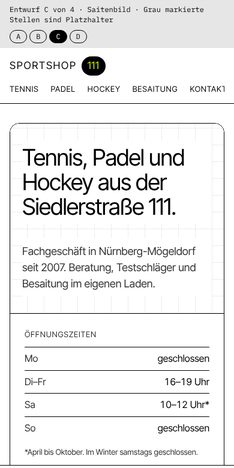
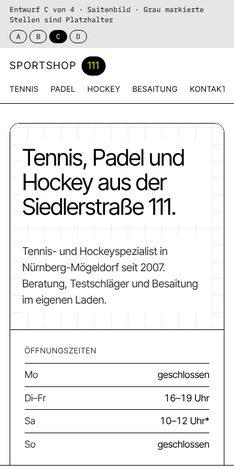
Entwürfe: Korrekturen nach unabhängiger Prüfung
Claude-Session: https://claude.ai/code/session_01KHANbUeJ7eaTpSTaDVxDAu

Changed region(s): [[0.0598, 0.688, 0.9573, 0.9872], [0.0897, 0.5085, 0.8675, 0.6581]]

diff --git a/entwuerfe/d-werkstatt.html b/entwuerfe/d-werkstatt.html
@@ -3,7 +3,6 @@
 <head>
 <meta charset="utf-8">
 <meta name="viewport" content="width=device-width, initial-scale=1, viewport-fit=cover">
-<meta name="claude:viewport-fit-sides" content="cover">
 <meta name="robots" content="noindex">
 <title>Sportshop 111 · Entwurf D</title>
 <link rel="stylesheet" href="basis.css">
@@ -43,7 +42,7 @@
     <div class="innen hero__raster">
       <div class="hero__text">
         <p class="mono">Sportshop 111 · Nürnberg-Mögeldorf</p>
-        <h1 id="hero-titel">Hier wird besaitet. Und beraten.</h1>
+        <h1 id="hero-titel">Hier wird besaitet.</h1>
         <p class="hero__sub">Tennis, Padel und Hockey. Besaitet wird bei uns im Laden auf einer Babolat Sensor Expert Dual.</p>
         <div class="hero__aktionen">
           <a class="pill" href="#besaitung">Zur Besaitung</a>
@@ -51,13 +50,13 @@
         </div>
       </div>
       <figure class="auftrag" aria-label="Beispiel eines Besaitungsauftrags">
-        <figcaption class="auftrag__kopf"><span>Besaitungsauftrag</span><span class="auftrag__nr">Nr. ____</span></figcaption>
+        <figcaption class="auftrag__kopf"><span>Besaitungsauftrag</span><span class="auftrag__nr">Muster</span></figcaption>
         <dl>
-          <div><dt>Schläger</dt><dd class="leer"></dd></div>
+          <div><dt>Schläger</dt><dd class="leer"><span class="vh">frei</span></dd></div>
           <div><dt>Saite</dt><dd>eine von über 60 Sorten oder eure eigene</dd></div>
           <div><dt>Härte</dt><dd class="leer"><span class="einheit">kg</span></dd></div>
           <div><dt>Maschine</dt><dd>Babolat Sensor Expert Dual</dd></div>
-          <div><dt>Abholung</dt><dd class="leer"></dd></div>
+          <div><dt>Abholung</dt><dd class="leer"><span class="vh">frei</span></dd></div>
         </dl>
         <p class="auftrag__fuss">Preis <span class="ph">ab –,– €</span></p>
       </figure>
@@ -78,19 +77,19 @@
       <h2 id="sport-titel" class="titel">Abteilungen</h2>
       <div class="raster3">
         <article class="abteilung">
-          <p class="tag">Tennis</p>
+          <h3 class="tag">Tennis</h3>
           <div class="ph-bild abteilung__bild">Tennis, Querformat</div>
           <p>Schläger von Wilson, Yonex und Babolat. Testschläger kostenlos, Kinderschläger ab 3 Jahren, Turnierbälle für Medenrunde und LK-Turniere auf Anfrage.</p>
         </article>
         <article class="abteilung">
-          <p class="tag">Padel</p>
+          <h3 class="tag">Padel</h3>
           <div class="ph-bild abteilung__bild">Padel, Querformat</div>
           <p>Schläger, Bälle und Griffbänder. Leihschläger im Laden oder rund um die Uhr am Automaten. <a href="https://www.nhtc.de/padel/" rel="noopener noreferrer" target="_blank">Court im NHTC buchen</a></p>
         </article>
         <article class="abteilung">
-          <p class="tag">Hockey</p>
+          <h3 class="tag">Hockey</h3>
           <div class="ph-bild abteilung__bild">Hockey, Querformat</div>
-          <p>Ansprechpartnerinnen sind Susa und Barbara. <span class="ph">Hockey-Sortiment folgt</span></p>
+          <p>Ansprechpartnerinnen sind unsere Hockeyexpertinnen Susa und Barbara. <span class="ph">Hockey-Sortiment folgt</span></p>
         </article>
       </div>
     </div>
@@ -99,7 +98,7 @@
   <section class="abschnitt abschnitt--linie" aria-labelledby="produkte-titel">
     <div class="innen">
       <div class="titelzeile">
-        <h2 id="produkte-titel" class="titel">Auf Lager</h2>
+        <h2 id="produkte-titel" class="titel">Aus dem Sortiment</h2>
         <p class="mono">Beispielmodelle · reservieren per Telefon</p>
       </div>
       <ul class="lager">
@@ -107,19 +106,19 @@
           <div class="ph-bild posten__bild">Foto</div>
           <div class="posten__name"><h3>Babolat Pure Drive</h3><p class="mono">Tennisschläger</p></div>
           <p class="posten__preis"><span class="ph">–,– €</span></p>
-          <a class="pill pill--klein" href="#kontakt">Reservieren</a>
+          <a class="pill pill--klein" href="#kontakt">Im Laden reservieren</a>
         </li>
         <li class="posten">
           <div class="ph-bild posten__bild">Foto</div>
           <div class="posten__name"><h3>Kirschbaum Pro Line II</h3><p class="mono">Tennissaite</p></div>
           <p class="posten__preis"><span class="ph">–,– €</span></p>
-          <a class="pill pill--klein" href="#kontakt">Reservieren</a>
+          <a class="pill pill--klein" href="#kontakt">Im Laden reservieren</a>
         </li>
         <li class="posten">
           <div class="ph-bild posten__bild">Foto</div>
           <div class="posten__name"><h3>Head Tour</h3><p class="mono">Tennisbälle</p></div>
           <p class="posten__preis"><span class="ph">–,– €</span></p>
-          <a class="pill pill--klein" href="#kontakt">Reservieren</a>
+          <a class="pill pill--klein" href="#kontakt">Im Laden reservieren</a>
         </li>
       </ul>
     </div>
@@ -129,10 +128,11 @@
     <div class="innen besaitung__raster">
       <h2 id="besaitung-titel" class="titel">Besaitung</h2>
       <div class="besaitung__text">
-        <p>Spielstärke, Spielart und Alter entscheiden mit, welche Saite und welche Härte passen. Wir bilden uns dazu laufend weiter und kennen die Anforderungen aus Freizeit, Turnier und Profibereich.</p>
+        <p>Spielstärke, Spielart und Alter entscheiden mit, welche Saite passt. Wir bilden uns dazu laufend weiter und kennen die Anforderungen aus Freizeit, Turnier und Profibereich.</p>
         <p>Erfahrung haben wir unter anderem vom WTA-Turnier Nürnberg und aus der Tennis-Bundesliga des 1. FCN. Für Vielbesaiter gibt es Sonderkonditionen, fast alle Saiten besorgen wir auch als Rollenware.</p>
       </div>
       <div class="team">
+        <h3 class="vh">Besaitung im Team</h3>
         <div><h3>Jens</h3><p>Tennis seit 1977, Bayernliga Herren 40, Mitinhaber</p></div>
         <div><h3>Jochen</h3><p>Besaitet seit 1991, Mitinhaber</p></div>
       </div>
@@ -157,6 +157,7 @@
             <tr><th scope="row">So</th><td>geschlossen</td></tr>
           </tbody>
         </table>
+        <p class="hinweis-ph"><span class="ph">Zeiten laut bisheriger Website, vom Laden zu bestätigen</span></p>
         <p class="kontakt__termin">Nach Absprache auch außerhalb: Tennis, Jens <a href="tel:+491775514256">0177 5514256</a> · Hockey, Susa <a href="tel:+491785441545">0178 5441545</a></p>
       </div>
     </div>
@@ -166,7 +167,7 @@
 <footer class="fuss">
   <div class="innen fuss__raster">
     <p class="marke">SPORTSHOP&nbsp;<span class="marke__zahl">111</span></p>
-    <p class="mono">Babolat · Wilson · Yonex · Head · Dunlop · Luxilon · Polystar · Kirschbaum</p>
+    <ul class="mono fuss__marken" aria-label="Marken"><li>Babolat</li><li>Wilson</li><li>Yonex</li><li>Head</li><li>Dunlop</li><li>Luxilon</li><li>Polystar</li><li>Kirschbaum</li></ul>
     <nav aria-label="Rechtliches"><a href="#">Impressum</a> <a href="#">Datenschutz</a></nav>
   </div>
 </footer>

diff --git a/entwuerfe/a-court.html b/entwuerfe/a-court.html
@@ -3,7 +3,6 @@
 <head>
 <meta charset="utf-8">
 <meta name="viewport" content="width=device-width, initial-scale=1, viewport-fit=cover">
-<meta name="claude:viewport-fit-sides" content="cover">
 <meta name="robots" content="noindex">
 <title>Sportshop 111 · Entwurf A</title>
 <link rel="stylesheet" href="basis.css">
@@ -67,7 +66,7 @@
   <section class="abschnitt" id="sortiment" aria-labelledby="sport-titel">
     <div class="innen">
       <header class="kopfzeile">
-        <h2 id="sport-titel">Drei Sportarten, ein Laden</h2>
+        <h2 id="sport-titel">Tennis, Padel und Hockey</h2>
         <p>Seit 2007 beraten wir in der Siedlerstraße zu Schlägern, Saiten, Bällen und Ausrüstung. Testschläger leihen wir kostenlos aus.</p>
       </header>
       <div class="raster3">
@@ -75,8 +74,8 @@
           <div class="ph-bild sportkarte__bild">Tennisschläger an der Wand, Hochformat 3:4</div>
           <div class="sportkarte__text">
             <h3>Tennis</h3>
-            <p>Schläger von Wilson, Yonex und Babolat. Kinderschläger ab 3 Jahren. Kleidung und Schuhe von Babolat und Head.</p>
-            <a class="pfeil" href="#tennis">Tennis ansehen</a>
+            <p>Schläger von Wilson, Yonex und Babolat. Kinderschläger ab 3 Jahren. Kleidung von Babolat, Schuhe von Babolat und Head.</p>
+            <a class="pfeil" href="#kontakt">Beratung anfragen</a>
           </div>
         </article>
         <article class="sportkarte" id="padel">
@@ -84,15 +83,15 @@
           <div class="sportkarte__text">
             <h3>Padel</h3>
             <p>Schläger, Bälle und Griffbänder. Leihschläger gegen eine kleine Gebühr, die vier Courts gehören zum NHTC.</p>
-            <a class="pfeil" href="#padel">Padel ansehen</a>
+            <a class="pfeil" href="#kontakt">Beratung anfragen</a>
           </div>
         </article>
         <article class="sportkarte" id="hockey">
           <div class="ph-bild sportkarte__bild">Hockeyschläger, Hochformat 3:4</div>
           <div class="sportkarte__text">
             <h3>Hockey</h3>
-            <p>Beratung von Susa und Barbara. <span class="ph">Hockey-Sortiment folgt</span></p>
-            <a class="pfeil" href="#hockey">Hockey ansehen</a>
+            <p>Ansprechpartnerinnen sind unsere Hockeyexpertinnen Susa und Barbara. <span class="ph">Hockey-Sortiment folgt</span></p>
+            <a class="pfeil" href="#kontakt">Beratung anfragen</a>
           </div>
         </article>
       </div>
@@ -113,7 +112,7 @@
   <section class="abschnitt" aria-labelledby="produkte-titel">
     <div class="innen">
       <header class="kopfzeile">
-        <h2 id="produkte-titel">Aktuell im Laden</h2>
+        <h2 id="produkte-titel">Aus dem Sortiment</h2>
         <p>Beispielmodelle aus dem Sortiment. Reservieren geht telefonisch, abholen und bezahlen im Shop.</p>
       </header>
       <div class="raster3">
@@ -184,6 +183,7 @@
             <tr><th scope="row">Sonntag</th><td>geschlossen</td></tr>
           </tbody>
         </table>
+        <p class="hinweis-ph"><span class="ph">Zeiten laut bisheriger Website, vom Laden zu bestätigen</span></p>
         <p class="kontakt__termin">Termine außerhalb der Öffnungszeiten nach Absprache: Tennis bei Jens, <a href="tel:+491775514256">0177 5514256</a>. Hockey bei Susa, <a href="tel:+491785441545">0178 5441545</a>.</p>
       </div>
     </div>

diff --git a/entwuerfe/c-saitenbild.html b/entwuerfe/c-saitenbild.html
@@ -3,7 +3,6 @@
 <head>
 <meta charset="utf-8">
 <meta name="viewport" content="width=device-width, initial-scale=1, viewport-fit=cover">
-<meta name="claude:viewport-fit-sides" content="cover">
 <meta name="robots" content="noindex">
 <title>Sportshop 111 · Entwurf C</title>
 <link rel="stylesheet" href="basis.css">
@@ -42,7 +41,7 @@
     <div class="zellen">
       <div class="zelle zelle--titel">
         <h1 id="hero-titel">Tennis, Padel und Hockey aus der Siedlerstraße&nbsp;111.</h1>
-        <p>Fachgeschäft in Nürnberg-Mögeldorf seit 2007. Beratung, Testschläger und Besaitung im eigenen Laden.</p>
+        <p>Tennis- und Hockeyspezialist in Nürnberg-Mögeldorf seit 2007. Beratung, Testschläger und Besaitung im eigenen Laden.</p>
       </div>
       <div class="zelle zelle--zeiten">
         <h2 class="label">Öffnungszeiten</h2>
@@ -53,6 +52,7 @@
           <div><dt>So</dt><dd>geschlossen</dd></div>
         </dl>
         <p class="fussnote">*April bis Oktober. Im Winter samstags geschlossen.</p>
+        <p class="fussnote"><span class="ph">vom Laden zu bestätigen</span></p>
       </div>
       <div class="zelle zelle--automat">
         <span class="quadrat" aria-hidden="true"></span>
@@ -83,7 +83,7 @@
             <li>Schläger von Wilson, Yonex, Babolat</li>
             <li>Testschläger kostenlos</li>
             <li>Kinderschläger ab 3 Jahren</li>
-            <li>Kleidung und Schuhe von Babolat und Head</li>
+            <li>Kleidung von Babolat, Schuhe von Babolat und Head</li>
           </ul>
         </article>
         <article class="spalte">
@@ -99,7 +99,7 @@
           <div class="ph-bild spalte__bild">Hockey, Hochformat 3:4</div>
           <h3>Hockey</h3>
           <ul class="punkte">
-            <li>Beratung von Susa und Barbara</li>
+            <li>Ansprechpartnerinnen: Susa und Barbara, unsere Hockeyexpertinnen</li>
             <li><span class="ph">Sortiment folgt</span></li>
           </ul>
         </article>
@@ -110,7 +110,7 @@
   <section class="abschnitt abschnitt--beton" aria-labelledby="produkte-titel">
     <div class="innen">
       <div class="kopfzeile">
-        <h2 id="produkte-titel">Im Regal</h2>
+        <h2 id="produkte-titel">Aus dem Sortiment</h2>
         <p>Beispielmodelle. Telefonisch reservieren, im Laden abholen und bezahlen.</p>
       </div>
       <div class="produkte">
@@ -126,7 +126,7 @@
         </article>
         <article class="produkt">
           <div class="ph-bild produkt__bild">Produktfoto</div>
-          <div class="produkt__info"><h3>Babolat RPM Blast</h3><p class="ph">–,– €</p></div>
+          <div class="produkt__info"><h3>Babolat Pure Strike</h3><p class="ph">–,– €</p></div>
           <a class="pill pill--voll" href="#kontakt">Im Laden reservieren</a>
         </article>
       </div>

diff --git a/entwuerfe/b-petrol.html b/entwuerfe/b-petrol.html
@@ -3,7 +3,6 @@
 <head>
 <meta charset="utf-8">
 <meta name="viewport" content="width=device-width, initial-scale=1, viewport-fit=cover">
-<meta name="claude:viewport-fit-sides" content="cover">
 <meta name="robots" content="noindex">
 <title>Sportshop 111 · Entwurf B</title>
 <link rel="stylesheet" href="basis.css">
@@ -70,7 +69,7 @@
         <article class="sport">
           <div class="ph-bild sport__bild">Tennis, Querformat 4:3</div>
           <h3>Tennis</h3>
-          <p>Schläger von Wilson, Yonex und Babolat, Kinderschläger ab 3 Jahren, Kleidung und Schuhe von Babolat und Head. Mannschaftspakete auf Anfrage.</p>
+          <p>Schläger von Wilson, Yonex und Babolat, Kinderschläger ab 3 Jahren, Kleidung von Babolat, Schuhe von Babolat und Head. Mannschaftspakete auf Anfrage.</p>
         </article>
         <article class="sport">
           <div class="ph-bild sport__bild">Padel, Querformat 4:3</div>
@@ -80,7 +79,7 @@
         <article class="sport">
           <div class="ph-bild sport__bild">Hockey, Querformat 4:3</div>
           <h3>Hockey</h3>
-          <p>Susa und Barbara beraten euch zur Hockey-Ausrüstung. <span class="ph">Sortiment folgt</span></p>
+          <p>Ansprechpartnerinnen sind unsere Hockeyexpertinnen Susa und Barbara. <span class="ph">Sortiment folgt</span></p>
         </article>
       </div>
     </div>
@@ -166,6 +165,7 @@
           <div><dt>Samstag</dt><dd>10:00–12:00 Uhr (April–Oktober), sonst geschlossen</dd></div>
           <div><dt>Sonntag</dt><dd>geschlossen</dd></div>
         </dl>
+        <p class="hinweis-ph"><span class="ph">Zeiten laut bisheriger Website, vom Laden zu bestätigen</span></p>
         <p class="kontakt__termin">Außerhalb der Zeiten nach Absprache: Tennis, Jens <a href="tel:+491775514256">0177 5514256</a> · Hockey, Susa <a href="tel:+491785441545">0178 5441545</a></p>
       </div>
     </div>

diff --git a/entwuerfe/index.html b/entwuerfe/index.html
@@ -1,6 +1,10 @@
-<title>Sportshop 111 Entwürfe</title>
-<meta name="claude:viewport-fit-sides" content="cover">
+<!doctype html>
+<html lang="de">
+<head>
+<meta charset="utf-8">
+<meta name="viewport" content="width=device-width, initial-scale=1, viewport-fit=cover">
 <meta name="robots" content="noindex">
+<title>Sportshop 111 Entwürfe</title>
 <style>
 /* Übersicht der vier Entwürfe. Bewusst nur helles Thema, passend zum Stil der Website. */
 @font-face { font-family: "Inter Tight"; src: url("fonts/inter-tight-latin-400-normal.woff2") format("woff2"); font-weight: 400; font-display: swap; }
@@ -33,6 +37,8 @@ h2 { font-weight: 400; font-size: 26px; line-height: 1.2; margin: 0; }
 .hinweise ul { margin: 0; padding-left: 18px; }
 @media (max-width: 760px) { .raster { grid-template-columns: 1fr; } .bilder img.mobil { width: 72px; } }
 </style>
+</head>
+<body>
 
 <div class="seite">
   <header class="kopf">
@@ -51,7 +57,7 @@ h2 { font-weight: 400; font-size: 26px; line-height: 1.2; margin: 0; }
     <a class="karte" href="b-petrol.html">
       <div class="bilder"><img src="vorschau/b-petrol.jpg" alt="Entwurf B, Desktop-Ansicht" width="864" height="600"><img class="mobil" src="vorschau/b-petrol-mobil.jpg" alt="Entwurf B, Handy-Ansicht" width="234" height="468"></div>
       <div class="zeile"><h2>Petrol</h2><span class="buchstabe">B</span></div>
-      <p>Die Ladenfarben im neuen System: Petrolblau statt Schwarz, Gelbgrün als Akzent, die orange „111“ aus dem alten Logo bleibt.</p>
+      <p>Die Ladenfarben im neuen System: Petrolblau aus dem alten Logo statt Schwarz, Gelbgrün als einziger Akzent.</p>
       <span class="oeffnen">Entwurf B öffnen</span>
     </a>
     <a class="karte" href="c-saitenbild.html">
@@ -79,3 +85,5 @@ h2 { font-weight: 400; font-size: 26px; line-height: 1.2; margin: 0; }
     </ul>
   </section>
 </div>
+</body>
+</html>

diff --git a/entwuerfe/d-werkstatt.css b/entwuerfe/d-werkstatt.css
@@ -96,7 +96,7 @@ main .abschnitt .pill:hover { background: var(--schwarz); color: var(--akzent); 
 .besaitung__text { display: grid; gap: 16px; font-size: 18px; line-height: 1.55; }
 .team { display: grid; gap: 16px; }
 .team > div { border-top: 1px solid var(--linie); padding-top: 12px; display: grid; gap: 4px; }
-.team h3 { font-size: 22px; }
+.team h3:not(.vh) { font-size: 22px; }
 .team p { color: var(--text2); font-size: 15px; }
 
 /* Kontakt */
@@ -114,6 +114,9 @@ main .abschnitt .pill:hover { background: var(--schwarz); color: var(--akzent); 
 .fuss { background: var(--petrol); color: var(--weiss); }
 .fuss__raster { display: flex; flex-wrap: wrap; gap: 16px 40px; align-items: center; justify-content: space-between; padding-block: 56px; font-size: 13px; }
 .fuss .mono { color: #c4d6dd; }
+.fuss__marken { display: flex; flex-wrap: wrap; gap: 4px 14px; }
+.fuss__marken li + li::before { content: "·"; margin-right: 14px; }
+.abteilung .tag { font-weight: 400; }
 .fuss nav { display: flex; gap: 24px; }
 .fuss a { text-underline-offset: 4px; }
 

diff --git a/entwuerfe/c-saitenbild.css b/entwuerfe/c-saitenbild.css
@@ -87,7 +87,7 @@
 
 .produkte { display: grid; grid-template-columns: repeat(3, minmax(0, 1fr)); gap: 16px; }
 .produkt { background: var(--weiss); border: 1px solid var(--linie); border-radius: var(--radius-flaeche); padding: 16px; display: grid; gap: 14px; }
-.produkt__bild { aspect-ratio: 3 / 4; background: var(--beton) !important; }
+.abschnitt--beton .produkt__bild { aspect-ratio: 3 / 4; background: var(--beton); }
 .produkt__info { display: flex; justify-content: space-between; align-items: baseline; gap: 12px; font-size: 13px; border-top: 1px solid var(--linie); padding-top: 12px; }
 .produkt__info h3 { font-size: 13px; letter-spacing: 0.02em; }
 .produkt .ph { background: var(--beton); }

diff --git a/entwuerfe/b-petrol.css b/entwuerfe/b-petrol.css
@@ -12,7 +12,7 @@
 .kopf { background: var(--dunkel); color: var(--weiss); }
 .kopf__zeile { display: flex; align-items: center; gap: 40px; min-height: 76px; flex-wrap: wrap; }
 .marke { font-size: 18px; letter-spacing: 0.1em; text-decoration: none; white-space: nowrap; color: var(--weiss); }
-.marke__zahl { color: var(--orange); margin-left: 6px; letter-spacing: 0.04em; }
+.marke__zahl { color: var(--akzent); margin-left: 6px; letter-spacing: 0.04em; }
 .hauptnav { display: flex; gap: 24px; margin-left: auto; }
 .hauptnav a { font-size: 13px; letter-spacing: 0.06em; text-transform: uppercase; text-decoration: none; color: var(--weiss); }
 .hauptnav a:hover { color: var(--akzent); }

diff --git a/entwuerfe/a-court.css b/entwuerfe/a-court.css
@@ -99,7 +99,8 @@
   font-size: clamp(48px, 7vw, 72px); line-height: 1; letter-spacing: -0.02em; color: var(--akzent);
 }
 .automat h2 { font-size: 26px; line-height: 1.3; }
-.automat p { color: #cfcfcf; }
+.automat p:not(.automat__zeit) { color: #cfcfcf; }
+.hero :focus-visible, .automat :focus-visible, .fuss :focus-visible { outline-color: var(--akzent); }
 
 /* Produkte */
 .produkt {

diff --git a/entwuerfe/basis.css b/entwuerfe/basis.css
@@ -121,6 +121,9 @@ ul, ol { list-style: none; }
   white-space: nowrap;
 }
 
+.hinweis-ph { margin-top: 12px; font-size: 13px; }
+.hinweis-ph .ph, .fussnote .ph { white-space: normal; }
+
 /* Mobile Aktionsleiste: Anrufen und Route immer erreichbar */
 .mobilbar { display: none; }
 @media (max-width: 720px) {
